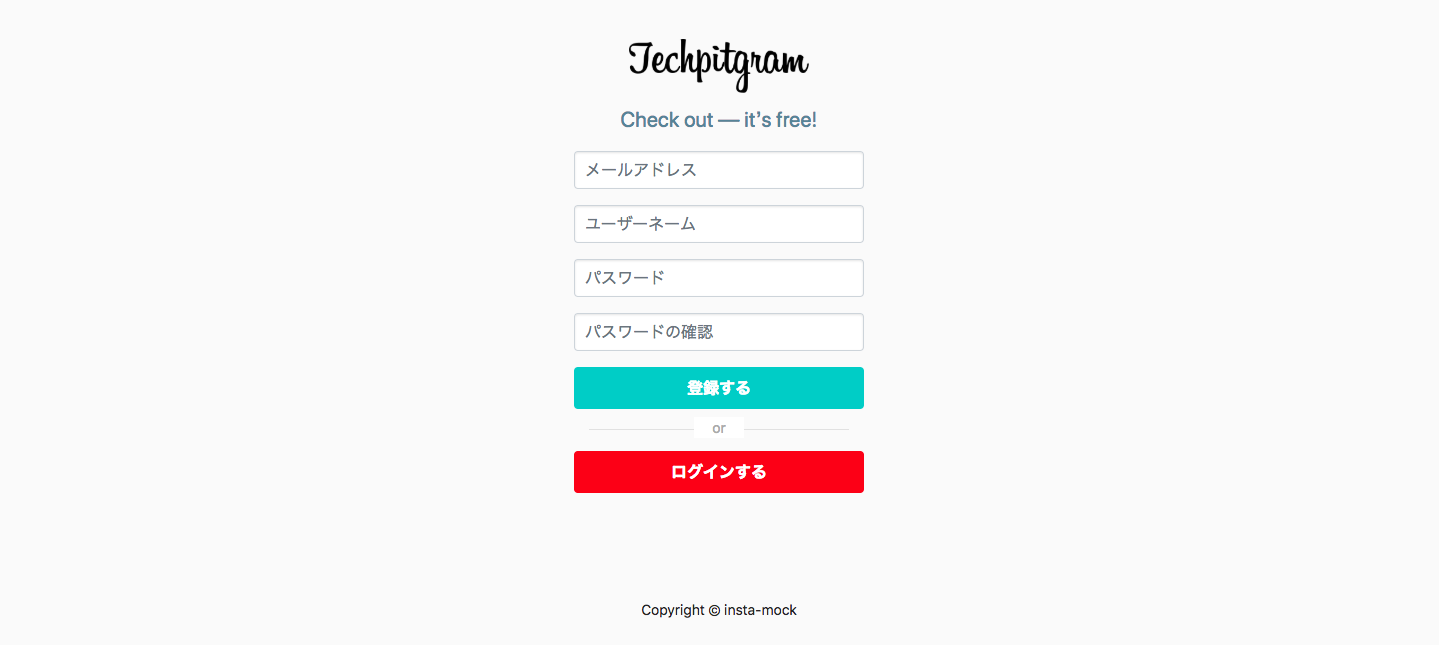
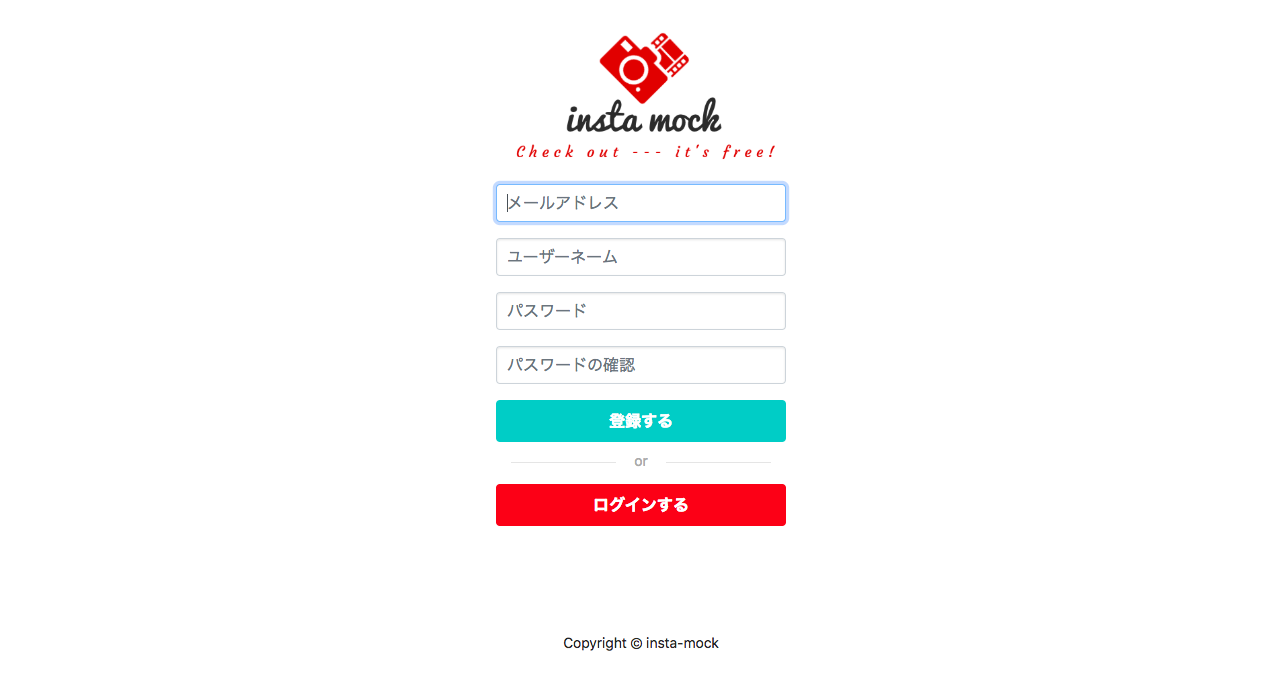
ロゴ変更

diff --git a/app/assets/stylesheets/custom.scss b/app/assets/stylesheets/custom.scss
@@ -1,16 +1,15 @@
 body {
-  background-color: #fafafa;
   font-size: 14px;
   color: #262626;
 }
 
 .logo-img {
-  background-image: image-url("logo.png");
+  background-image: image-url("insta_mock.png");
   background-repeat: no-repeat;
-  height: 56px;
-  width: 180px;
+  height: 150px;
+  width: 300px;
   background-size: 160px;
-  background-size: 180px!important;
+  background-size: 300px!important;
 }
 
 .form-wrap{

diff --git a/app/assets/stylesheets/layouts/navbar.scss b/app/assets/stylesheets/layouts/navbar.scss
@@ -9,7 +9,7 @@
   }
   &__mainLogo {
     background-repeat: no-repeat;
-    background-image: image-url("logo.png");
+    background-image: image-url("insta_mock_title.png");
   }
   &-nav {
     & > li {
